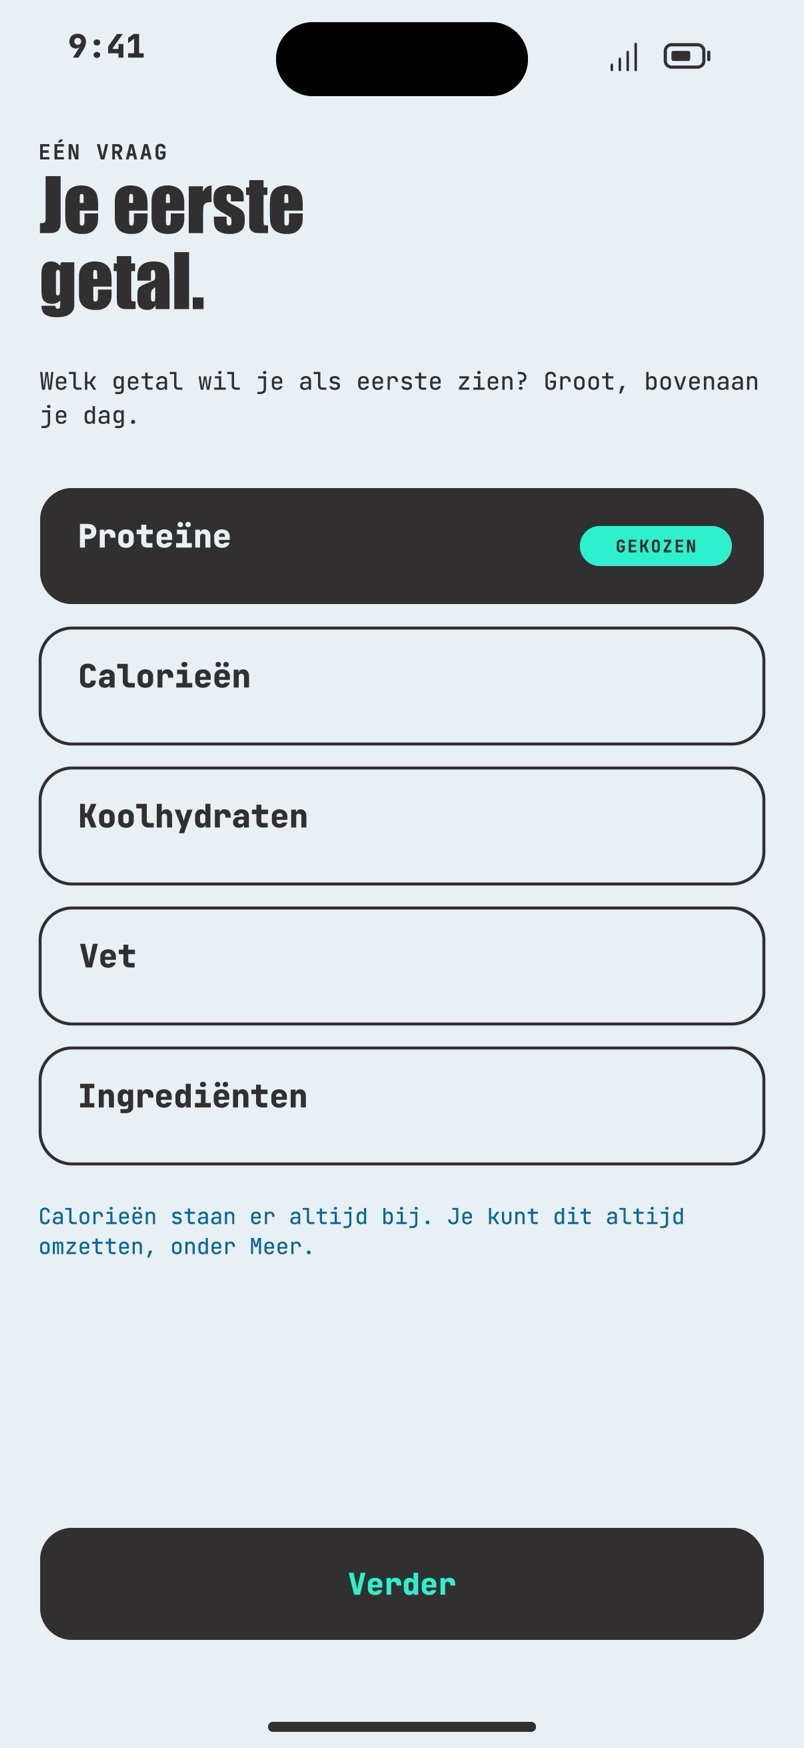
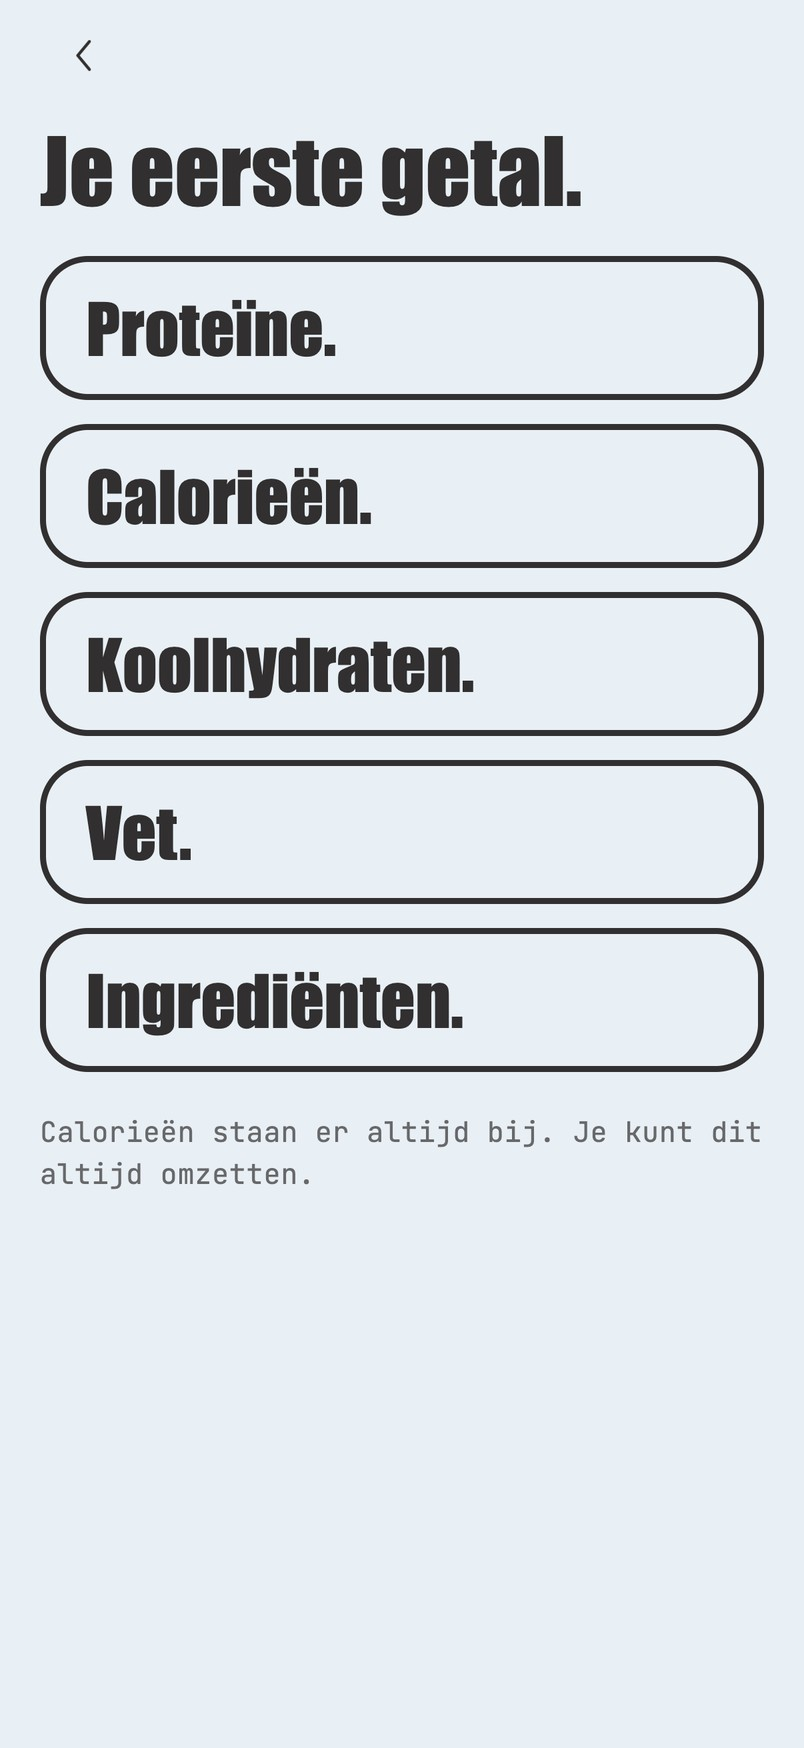
Latest app screens, stripes on dark home card, more room above section rules

diff --git a/pers.html b/pers.html
@@ -33,7 +33,7 @@
   <h2 class="kop" style="margin-top:72px">Logo.</h2>
   <div class="pers__rij" data-na-elkaar><div class="pers__item"><div class="voorbeeld voorbeeld--licht"><img src="assets/img/woordmerk-zwart.svg" alt="Woordmerk, zwart" loading="lazy"></div><div><h3 class="tussenkop">Woordmerk, zwart</h3><p class="klein">SVG, voor lichte achtergronden</p></div><a class="knop knop--tweede" href="assets/img/woordmerk-zwart.svg" download>Download</a></div><div class="pers__item"><div class="voorbeeld voorbeeld--donker"><img src="assets/img/woordmerk-wit.svg" alt="Woordmerk, wit" loading="lazy"></div><div><h3 class="tussenkop">Woordmerk, wit</h3><p class="klein">SVG, voor donkere achtergronden</p></div><a class="knop knop--tweede" href="assets/img/woordmerk-wit.svg" download>Download</a></div><div class="pers__item"><div class="voorbeeld voorbeeld--licht"><img src="assets/img/app-icoon-zwart.svg" alt="App-icoon" loading="lazy"></div><div><h3 class="tussenkop">App-icoon</h3><p class="klein">SVG, vierkant</p></div><a class="knop knop--tweede" href="assets/img/app-icoon-zwart.svg" download>Download</a></div></div>
   <h2 class="kop" style="margin-top:72px">Schermen.</h2>
-  <div class="pers__rij" data-na-elkaar><div class="pers__item"><div class="voorbeeld voorbeeld--licht" style="aspect-ratio:3/4"><div class="telefoon "><img src="assets/img/scherm-thuis-licht.jpg" alt="Vandaag, licht" width="402" height="874" loading="lazy" decoding="async"></div></div><div><h3 class="tussenkop">Vandaag, licht</h3><p class="klein">JPG, 1748 px hoog</p></div><a class="knop knop--tweede" href="assets/img/scherm-thuis-licht.jpg" download>Download</a></div><div class="pers__item"><div class="voorbeeld voorbeeld--licht" style="aspect-ratio:3/4"><div class="telefoon "><img src="assets/img/scherm-thuis-donker.jpg" alt="Vandaag, donker" width="402" height="874" loading="lazy" decoding="async"></div></div><div><h3 class="tussenkop">Vandaag, donker</h3><p class="klein">JPG, 1748 px hoog</p></div><a class="knop knop--tweede" href="assets/img/scherm-thuis-donker.jpg" download>Download</a></div><div class="pers__item"><div class="voorbeeld voorbeeld--licht" style="aspect-ratio:3/4"><div class="telefoon "><img src="assets/img/scherm-gevonden-licht.jpg" alt="Gevonden" width="402" height="874" loading="lazy" decoding="async"></div></div><div><h3 class="tussenkop">Gevonden</h3><p class="klein">JPG, 1748 px hoog</p></div><a class="knop knop--tweede" href="assets/img/scherm-gevonden-licht.jpg" download>Download</a></div></div>
+  <div class="pers__rij" data-na-elkaar><div class="pers__item"><div class="voorbeeld voorbeeld--licht" style="aspect-ratio:3/4"><div class="telefoon "><img src="assets/img/scherm-thuis-licht.jpg" alt="Vandaag, licht" width="402" height="874" loading="lazy" decoding="async"></div></div><div><h3 class="tussenkop">Vandaag, licht</h3><p class="klein">JPG, 1748 px hoog</p></div><a class="knop knop--tweede" href="assets/img/scherm-thuis-licht.jpg" download>Download</a></div><div class="pers__item"><div class="voorbeeld voorbeeld--licht" style="aspect-ratio:3/4"><div class="telefoon "><img src="assets/img/scherm-thuis-donker.jpg" alt="Vandaag, donker" width="402" height="874" loading="lazy" decoding="async"></div></div><div><h3 class="tussenkop">Vandaag, donker</h3><p class="klein">JPG, 1748 px hoog</p></div><a class="knop knop--tweede" href="assets/img/scherm-thuis-donker.jpg" download>Download</a></div><div class="pers__item"><div class="voorbeeld voorbeeld--licht" style="aspect-ratio:3/4"><div class="telefoon "><img src="assets/img/scherm-product-licht.jpg" alt="Product" width="402" height="874" loading="lazy" decoding="async"></div></div><div><h3 class="tussenkop">Product</h3><p class="klein">JPG, 1748 px hoog</p></div><a class="knop knop--tweede" href="assets/img/scherm-product-licht.jpg" download>Download</a></div></div>
   <p class="tekst" style="margin-top:48px">Perscontact: <a class="link" href="mailto:per100@upfront.nl?subject=Pers%20PER100">per100@upfront.nl</a></p>
 </div>
 </main>

diff --git a/index.html b/index.html
@@ -36,7 +36,7 @@
       </dl>
     </div>
     <div class="hero__beeld">
-      <div class="telefoon "><img src="assets/img/scherm-thuis-licht.jpg" alt="Het scherm Vandaag in PER100: 1.240 kcal vandaag, 86 g eiwit en 142 g koolhydraten, met de tegels Zoek en Scan" width="402" height="874" decoding="async"></div>
+      <div class="telefoon "><img src="assets/img/scherm-thuis-licht.jpg" alt="Het scherm Vandaag in PER100: 51 g eiwit vandaag, 817 kcal en 94 g koolhydraten, met de tegels Zoek en Scan" width="402" height="874" decoding="async"></div>
       <div class="bronkaart" aria-label="Voorbeeld: Skyr naturel van Arla, 11 gram eiwit per 100 gram, bron etiket">
         <p class="label">Skyr naturel &middot; Arla</p>
         <p class="bronkaart__getal"><b>11 g</b><span>eiwit per 100 g</span></p>
@@ -90,7 +90,7 @@
     </div>
     <div class="app__beeld opkomst">
       <div class="drie">
-        <div class="telefoon t1"><img src="assets/img/scherm-gevonden-licht.jpg" alt="Het scherm Gevonden: Skyr naturel, 11 g eiwit per 100 g, bron etiket" width="402" height="874" loading="lazy" decoding="async"></div><div class="telefoon t2"><img src="assets/img/scherm-thuis-donker.jpg" alt="Het scherm Vandaag in het donker" width="402" height="874" loading="lazy" decoding="async"></div><div class="telefoon t3"><img src="assets/img/scherm-agenda-licht.jpg" alt="De agenda met de getallen van de week" width="402" height="874" loading="lazy" decoding="async"></div>
+        <div class="telefoon t1"><img src="assets/img/scherm-product-licht.jpg" alt="Het product Skyr: per portie van 250 g 25 g eiwit en 190 kcal, ingevuld door gebruikers" width="402" height="874" loading="lazy" decoding="async"></div><div class="telefoon t2"><img src="assets/img/scherm-thuis-donker.jpg" alt="Het scherm Vandaag in het donker" width="402" height="874" loading="lazy" decoding="async"></div><div class="telefoon t3"><img src="assets/img/scherm-agenda-donker.jpg" alt="De agenda van vandaag: drie producten, elk met de bron" width="402" height="874" loading="lazy" decoding="async"></div>
       </div>
     </div>
   </div>

diff --git a/css/per100.css b/css/per100.css
@@ -185,7 +185,7 @@ ul, ol { margin: 0; padding: 0; list-style: none; }
 .sectie__kop .tekst { grid-column: 1 / span 6; margin-top: 24px; }
 
 /* elk onderdeel begint als een etiket: dikke lijn in Kool Zwart, daaronder het label met een teal blokje */
-.sectie--etiket .sectie__kop { border-top: 4px solid var(--kool); padding-top: 22px; }
+.sectie--etiket .sectie__kop { border-top: 4px solid var(--kool); padding-top: 46px; margin-top: -24px; }
 .sectie--etiket .sectie__kop .label { display: flex; align-items: center; gap: 10px; font-size: 14px; }
 .sectie--etiket .sectie__kop .label::before { content: ""; width: 10px; height: 10px; background: var(--teal); flex: none; }
 
